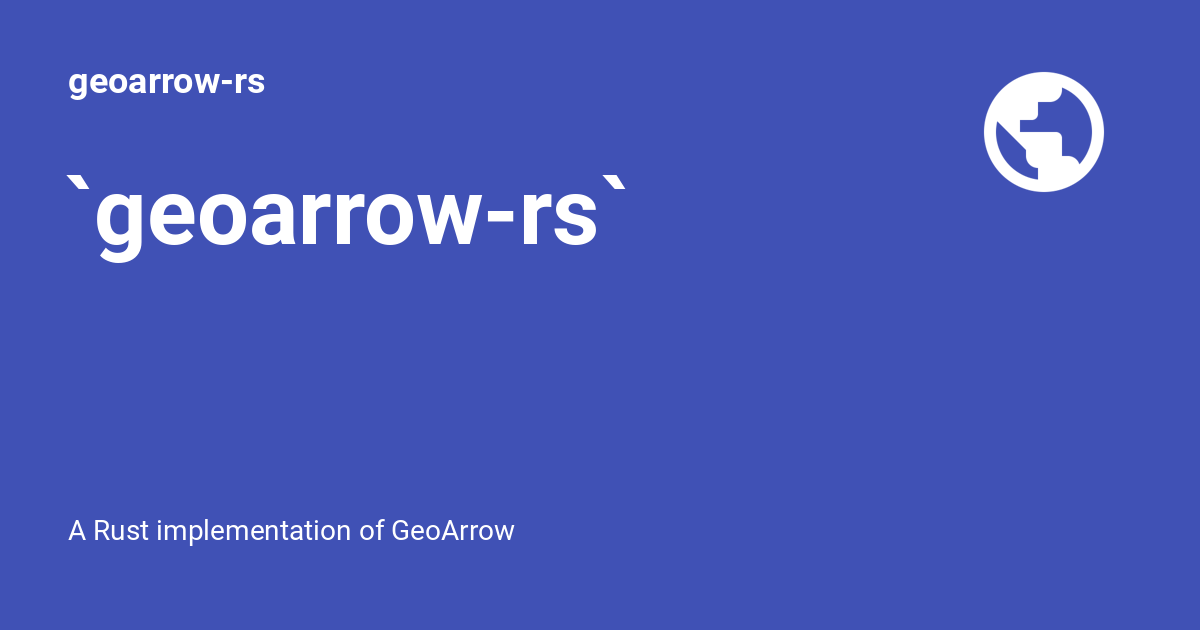
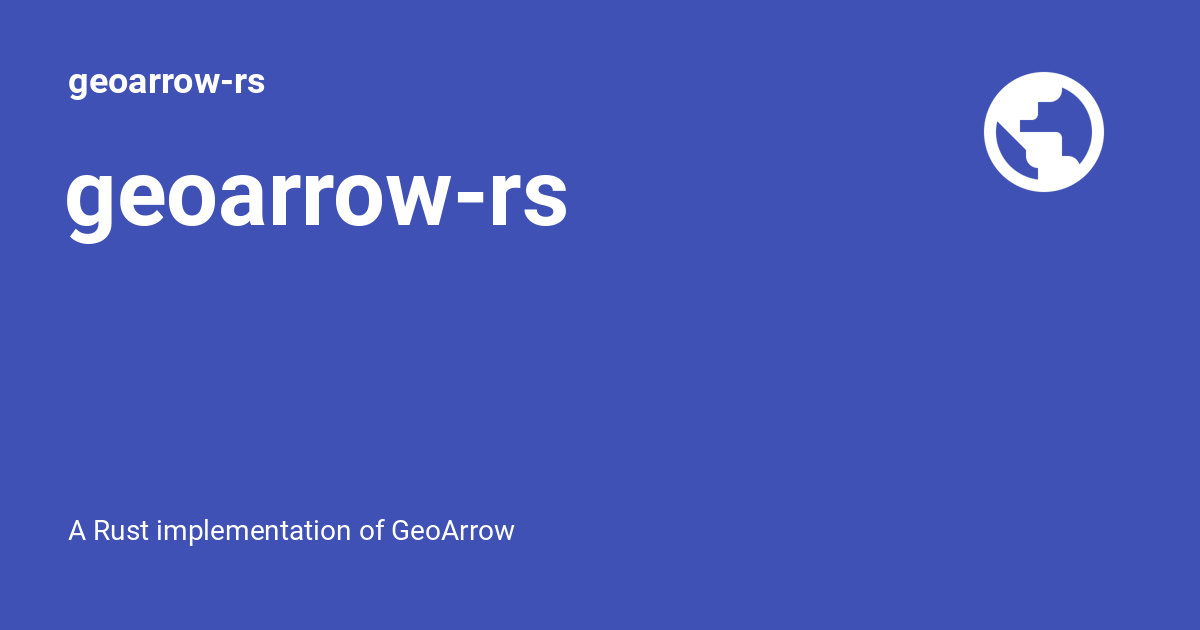
New revision of top-level docs site

Changed region(s): [[0.0308, 0.2714, 0.5242, 0.4222]]

diff --git a/index.html b/index.html
@@ -413,7 +413,7 @@
   
 
 
-<h1 id="geoarrow-rs"><code>geoarrow-rs</code><a class="headerlink" href="#geoarrow-rs" title="Permanent link">&para;</a></h1>
+<h1 id="geoarrow-rs">geoarrow-rs<a class="headerlink" href="#geoarrow-rs" title="Permanent link">&para;</a></h1>
 <p>The geoarrow-rs repository contains a Rust implementation, Python bindings, and JavaScript (WebAssembly) bindings of the <a href="https://geoarrow.org">GeoArrow</a> memory specification for efficiently storing geospatial vector geometries, connected to geospatial algorithms implemented by the <a href="https://georust.org/">GeoRust community</a>.</p>
 <div class="grid cards">
 <ul>
